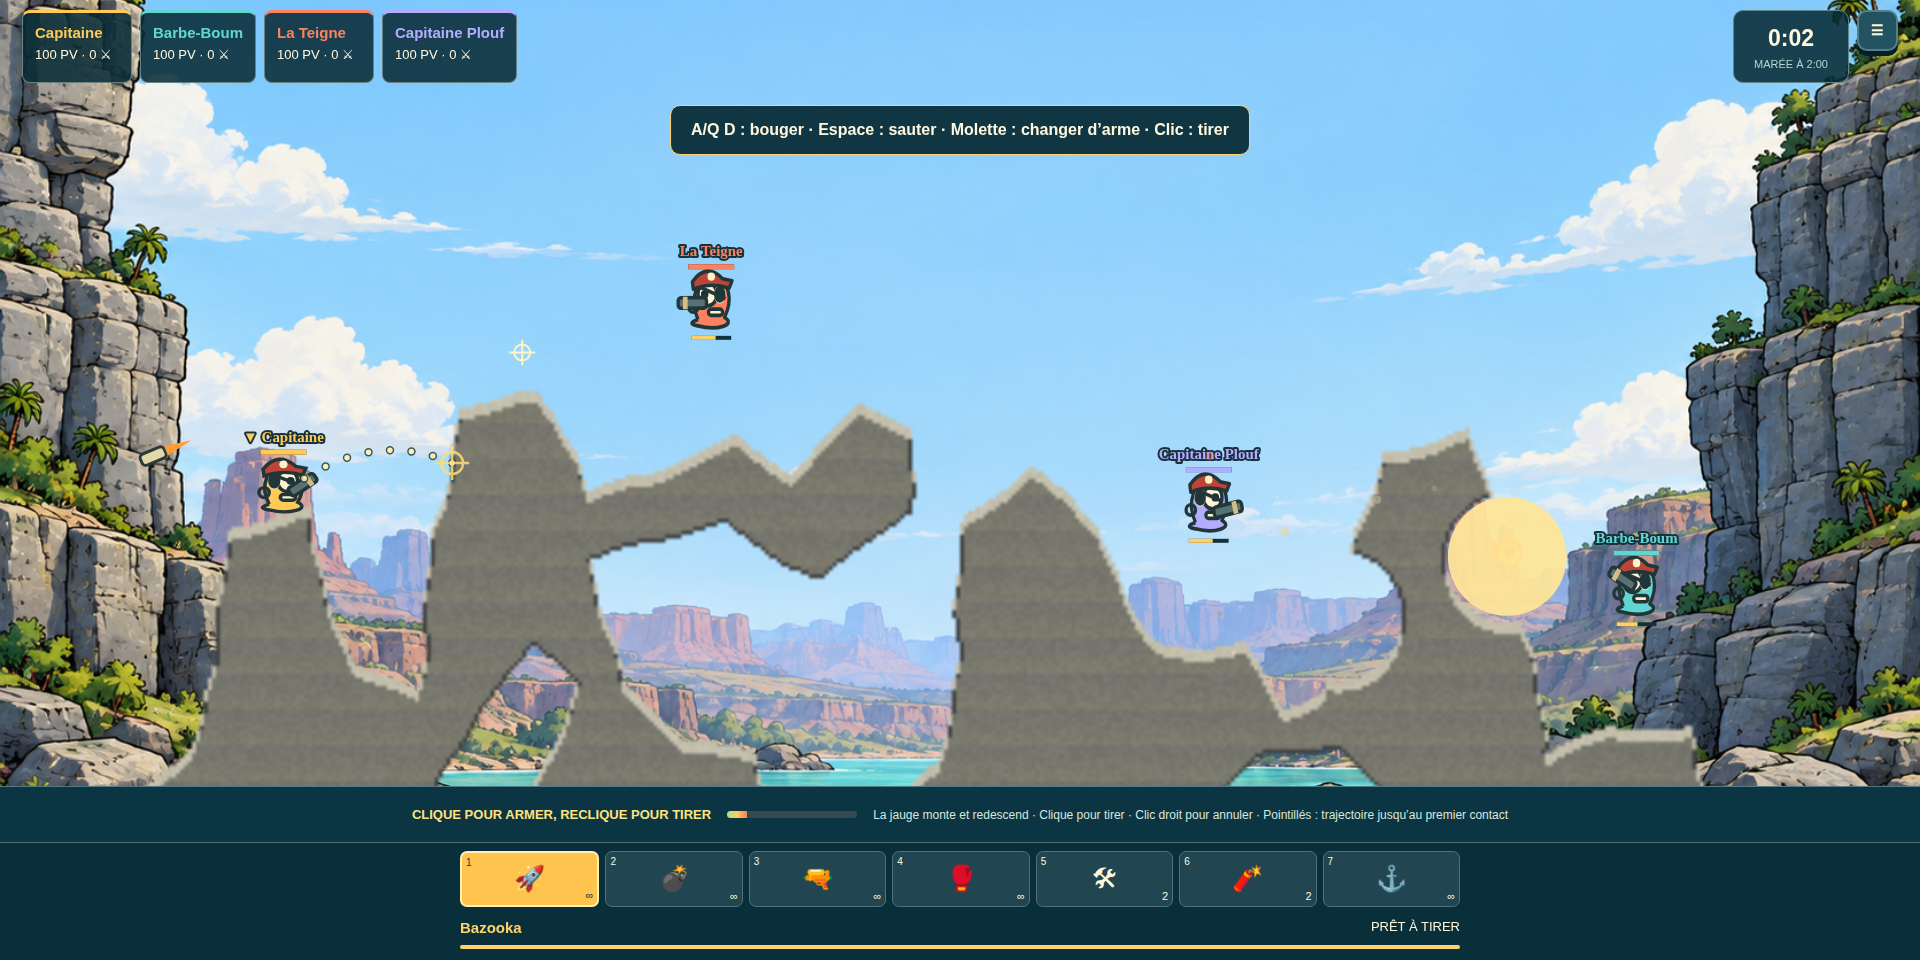
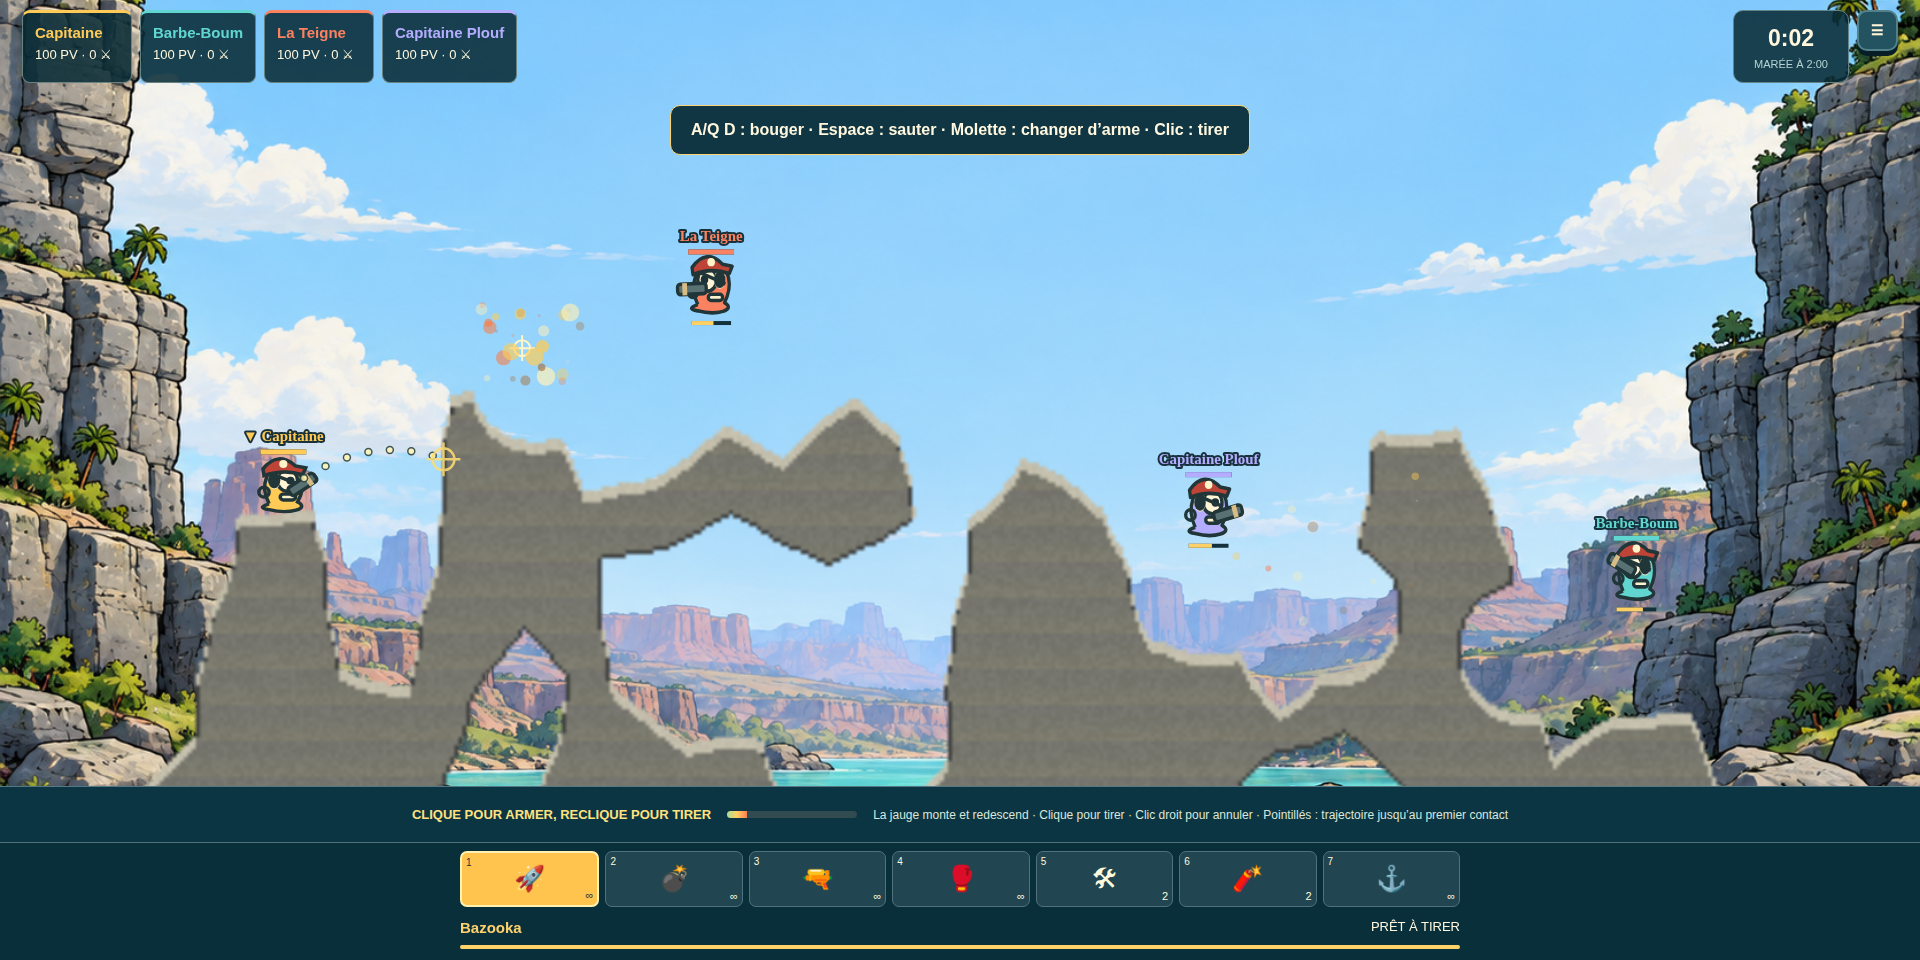
Polish homepage tagline and add GitHub link

diff --git a/app/globals.css b/app/globals.css
@@ -53,3 +53,4 @@
 .result-details-list{display:grid;gap:7px;margin-top:8px}.result-detail-row{display:grid;grid-template-columns:1.2fr repeat(6,minmax(75px,1fr));gap:8px;align-items:center;background:#123a45;padding:9px 11px;border-radius:6px;font-size:12px}
 .result-detail-row span{color:#a9c3c3}.result-detail-row b{display:block;color:#fff4c4;margin-top:2px}
 @media(max-width:700px){.results-panel>.actions{position:static;margin-top:14px}.result-ranking{grid-template-columns:1fr}.result-detail-row{grid-template-columns:1fr 1fr}.result-detail-row>strong{grid-column:1/-1}.result-score b{font-size:16px}}
+.mast-actions{display:flex;align-items:center;gap:10px}.github-link{display:inline-flex;align-items:center;gap:6px;padding:9px 14px;border:2px solid #ffe093;border-radius:7px;background:#ffc44e;color:#19323a;font-size:13px;font-weight:900;text-decoration:none;box-shadow:0 4px 0 #7d452b;transition:transform .12s,filter .12s}.github-link:hover{filter:brightness(1.08);transform:translateY(-2px)}.github-link:focus-visible{outline:3px solid white;outline-offset:3px}@media(max-width:700px){.mast-tagline{display:none}.github-link{padding:8px 10px;font-size:12px}}

diff --git a/app/game/Game.tsx b/app/game/Game.tsx
@@ -782,13 +782,21 @@ export default function Game() {
           <div className="shade" />
           <header className="mast">
             <span className="brand">☠ GRABUGE</span>
-            <span className="pill">2 À 4 JOUEURS · ACTIONS SIMULTANÉES</span>
+            <div className="mast-actions">
+              <span className="pill mast-tagline">2 À 4 JOUEURS · ACTIONS SIMULTANÉES</span>
+              <a className="github-link" href="https://github.com/ClementV78/grabuge"
+                target="_blank" rel="noopener noreferrer">
+                GitHub <span aria-hidden="true">↗</span>
+              </a>
+            </div>
           </header>
           <section className="start">
             <div className="eyebrow">PIRATES EN PAGAILLE</div>
             <h1>GRABUGE !</h1>
             <h2>
-              Pas de quartier, pas de tour par tour !
+              Pas de quartier,
+              <br />
+              pas de tour par tour !
               <br />
               Ça tire de tous les côtés !
             </h2>
